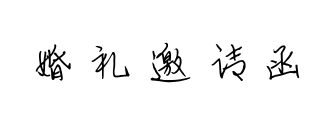
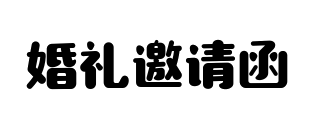
细节修正

Changed region(s): [[0.0613, 0.3197, 0.9202, 0.7377]]

diff --git a/index.html b/index.html
@@ -6,7 +6,7 @@
 <title>丁志斐 & 王鹤锦的婚礼邀请</title>
 <meta property="og:title" content="丁志斐 & 王鹤锦的婚礼邀请">
 <meta property="og:description" content="2026年11月16日，诚挚邀请您见证我们的幸福">
-<meta property="og:image" content="https://invitation.dingwangwedding.asia/assets/custom/photo1.jpg">
+<meta property="og:image" content="https://invitation.dingwangwedding.asia/assets/custom/photo1.jpg?_v=1">
 <meta property="og:url" content="https://invitation.dingwangwedding.asia/">
 <link rel="icon" href="favicon.ico" sizes="any">
 <style>
@@ -28,7 +28,7 @@
     overflow: hidden;
   }
   .flex-row { display: flex; flex-direction: row;}
-  .body_bg { padding: 20px; background: url(/assets/base/bg.webp); }
+  .body_bg { padding: 20px; background: url(/assets/base/bg.webp); background-size: contain; }
   .top-wrap1 { margin-bottom: 10px; font-size: 18px; }
   .top-en { font-family: Georgia, serif; font-weight: 600; letter-spacing: 2px; color: #272429;  }
   .top-cn { color: #272429; }
@@ -39,17 +39,40 @@
   .photo { width: 100%; border-radius: 8px; margin-bottom: 24px; display: block; object-fit: cover; }
   .text-block { font-size: 14px; color: #787878; text-align: center; line-height: 2; margin-bottom: 28px; letter-spacing: 0.5px; }
   .text-block.dark { color: #2f2f2f; }
+  .part-title { width: 100%; font-size:1.2rem; color:#000000;letter-spacing:0.05rem;line-height: 3rem; text-align: center; }
   .couple { display: flex; justify-content: center; align-items: center; gap: 20px; margin: 30px 0; }
   .couple .name { font-size: 18px; font-weight: 600; color: #2f2f2f; }
   .couple .heart { color: #e08a9e; font-size: 20px; }
+  /* 新人头像 */
+  .couple-avatars, .couple-names { display: flex; justify-content: center; align-items: center; gap: 14px; }
+  .couple-avatars { margin: 8px 0 16px; }
+  .couple-avatars .avatar { width: 108px; height: 108px; border-radius: 50%; object-fit: cover; display: block; }
+  .couple-avatars .heart-img { width: 51px; height: 40px; display: block; }
+  .couple-names { margin-bottom: 28px; }
+  .couple-names .name { width: 108px; text-align: center; font-size: 15px; color: #2f2f2f; letter-spacing: 2px; }
+  .couple-names .gap { width: 51px; }
   .date-section { text-align: center; margin: 36px 0; padding: 24px 0; border-top: 1px solid #f0e6e6; border-bottom: 1px solid #f0e6e6; }
   .date-main { font-size: 20px; font-weight: 600; color: #2f2f2f; margin-bottom: 4px; }
   .date-sub { font-size: 13px; color: #787878; }
+  /* 婚礼日历 */
+  .calendar { max-width: 260px; margin: 22px auto 26px; }
+  .cal-head { display: flex; align-items: baseline; justify-content: space-between; margin-bottom: 18px; }
+  .cal-month { font-family: Georgia, serif; font-weight: 700; font-size: 38px; line-height: 1; color: #a8202f; }
+  .cal-month small { font-size: 17px; font-weight: 400; margin-left: 2px; }
+  .cal-year { font-family: Georgia, serif; font-size: 15px; letter-spacing: 1px; color: #b3a7a7; }
+  .cal-week, .cal-grid { display: grid; grid-template-columns: repeat(7, 1fr); }
+  .cal-week { font-size: 13px; color: #b3a7a7; text-align: center; padding-bottom: 6px; border-bottom: 1px solid #e6c6cb; }
+  .cal-grid { margin-top: 12px; row-gap: 6px; }
+  .cal-day { position: relative; display: flex; align-items: center; justify-content: center; height: 28px; font-family: Georgia, serif; font-size: 13px; color: #b3a7a7; }
+  .cal-day span { position: relative; }
+  .cal-heart { position: absolute; width: 30px; height: 30px; }
+  .cal-day.today { color: #a8202f; font-weight: 700; }
   .address { text-align: center; font-size: 15px; color: #2f2f2f; margin: 24px 0; }
   .address .label { display: block; font-size: 13px; color: #b58a95; margin-bottom: 4px; letter-spacing: 2px; }
-  .rsvp { margin: 40px 0 20px; padding: 24px; background: #fdf8f5; border-radius: 12px; }
+  .rsvp { margin: 40px 0 20px; padding: 24px; }
   .rsvp-title { text-align: center; font-size: 15px; font-weight: 600; color: #8a0212; letter-spacing: 2px; margin-bottom: 20px; }
-  .rsvp input, .rsvp textarea { width: 100%; padding: 12px 16px; margin-bottom: 12px; border: 1px solid #e0d0d0; border-radius: 8px; font-size: 14px; background: #fff; outline: none; font-family: inherit; }
+  .rsvp form { width: 90%; margin: 5%; }
+  .rsvp input, .rsvp textarea { width: 100%; padding: 12px 16px; margin-bottom: 12px; border: 1px solid #e0d0d0; border-radius: 8px; font-size: 14px; background: transparent; outline: none; font-family: inherit; }
   .rsvp input:focus, .rsvp textarea:focus { border-color: #e08a9e; }
   .rsvp textarea { min-height: 5rem; resize: vertical; }
   .rsvp button { width: 100%; padding: 14px; background: #840404; color: #fff; border: 1px solid #ca9133; border-radius: 8px; font-size: 15px; letter-spacing: 2px; cursor: pointer; font-family: inherit; }
@@ -65,25 +88,32 @@
     position: fixed;
     top: 20px;
     right: 20px;
-    width: 44px;
-    height: 44px;
+    width: 30px;
+    height: 30px;
+    padding: 1px;
     border-radius: 50%;
     background: rgba(145, 143, 143, 0.26);
-    display: flex;
-    align-items: center;
-    justify-content: center;
     z-index: 9999;
     cursor: pointer;
     transition: background 0.3s;
   }
   .music-btn img {
-    width: 24px;
-    height: 24px;
+    width: 28px;
+    height: 28px;
+  }
+  .music-btn.paused::after {
+    content: '';
+    position: absolute;
+    top: 50%;
+    left: 50%;
+    transform: translate(-50%, -50%) rotate(-45deg);
+    width: 2px;
+    height: 26px;
+    background: white;
+  }
+  .music-btn:not(.paused) img {
     animation: rotate 3s linear infinite;
     animation-play-state: running;
-  }
-  .music-btn.paused img {
-    animation-play-state: paused;
   }
   @keyframes rotate {
     from { transform: rotate(0deg); }
@@ -106,11 +136,23 @@
   <div class="body_bg">
     <div class="text-block text-right" style="font-weight:bold;">D&amp;W<br/>想告诉你们一个好消息<br>我们结婚啦！</div>
 
-    <img class="photo" src="assets/custom/photo1.jpg" alt="婚纱照">
+    <img class="photo" src="assets/custom/photo9.jpg" alt="婚纱照">
 
     <img class="photo" src="assets/base/invitationText.png" alt="婚礼邀请函">
+
+    <!-- 新人头像 -->
+    <div class="couple-avatars">
+      <img class="avatar" src="assets/custom/couple-groom.webp" alt="丁志斐">
+      <img class="heart-img" src="assets/base/couple-heart.webp" alt="❤">
+      <img class="avatar" src="assets/custom/couple-bride.webp" alt="王鹤锦">
+    </div>
+    <div class="couple-names">
+      <span class="name">丁志斐</span>
+      <span class="gap"></span>
+      <span class="name">王鹤锦</span>
+    </div>
     <div class="text-block">
-      我度量时间的方式<br>
+      度量时间的方式<br>
       不是三餐四季<br>
       不是昼夜交替<br>
       而是是否和你在一起<br>
@@ -118,21 +160,49 @@
       来抵御漫漫岁月中的默默无闻<br>
       终于在
     </div>
-
-    <img class="photo" src="assets/custom/photo2.jpg" alt="婚纱照">
-
-    <div class="couple">
-      <span class="name">丁志斐</span>
-      <span class="heart">❤</span>
-      <span class="name">王鹤锦</span>
+    <div class="text-block dark" style="margin-top: -10px; margin-bottom: 8px; font-weight: 600;">
+      2026年11月16日
     </div>
-
     <div class="text-block dark">
-      2026年11月16日<br>
       <span style="font-size:13px;color:#787878;">我们决定举行婚礼！</span>
     </div>
-
     <img class="photo" src="assets/custom/photo3.jpg" alt="婚纱照">
+    <img class="photo" src="assets/base/flower.webp" style="width: 68px; margin: 0 auto;" />
+    <div class="text-block">
+      浪漫不止有鲜花和夕阳<br>
+      还有细水长流<br>
+      来日方长
+    </div>
+    <img class="photo" src="assets/custom/photo4.webp" alt="婚纱照">
+    <div style="position: relative; height: 48px;">
+      <img src="assets/base/dream.png" style="width: 104px; position: absolute; top: -56px; right: 0;" />
+    </div>
+    <div class="text-block text-right">
+      /<br>
+      我们说到爱，说到相见<br>
+      仿佛大地给了我们容身之所<br>
+      不断靠近的星群<br>
+      头顶上的流水之声
+    </div>
+    <img class="photo" src="assets/custom/photo5.jpg" alt="婚纱照">
+    <img class="photo" src="assets/custom/photo6.jpg" alt="婚纱照">
+    <div class="text-block">
+      我虽不善言辞<br>
+      但关于爱你我无法掩饰<br>
+      从粗粝的一生中<br>
+      榨尽所有温柔悉数献于你<br>
+      我仍觉不够
+    </div>
+    <div style="display: flex; flex-flow: row wrap; gap: 0.5rem;">
+      <div style="flex: 1;">
+        <img class="photo" src="assets/custom/photo7.jpg" alt="婚纱照"/>
+      </div>
+      <div style="flex: 1;">
+        <img class="photo" src="assets/custom/photo8.jpg" alt="婚纱照" style="margin-top: 12rem;">
+        <img class="photo" src="assets/base/leaf-heart.png" alt="" style="width: 51px; float: right; margin-right: 2rem;">
+      </div>
+    </div>
+
 
     <div class="text-block">
       如今<br>
@@ -140,18 +210,44 @@
       诚挚邀请共同走过许多岁月最重要的亲朋好友<br>
       一同分享爱与喜悦
     </div>
+    <img class="photo" src="assets/base/flower2.png" style="width: 65px; margin: 0 auto;" />
 
     <div class="date-section">
-      <div style="font-size:15px;color:#990505;letter-spacing:3px;margin-bottom:16px;">· 婚礼时间 / TIME ·</div>
+      <div class="part-title">· 婚礼时间 / TIME ·</div>
+      <div class="calendar">
+        <div class="cal-head">
+          <div class="cal-month">11 <small>/ 16</small></div>
+          <div class="cal-year">- 2026 -</div>
+        </div>
+        <div class="cal-week">
+          <span>一</span><span>二</span><span>三</span><span>四</span><span>五</span><span>六</span><span>日</span>
+        </div>
+        <div class="cal-grid">
+          <div class="cal-day"></div><div class="cal-day"></div><div class="cal-day"></div><div class="cal-day"></div><div class="cal-day"></div><div class="cal-day"></div><div class="cal-day"><span>1</span></div>
+          <div class="cal-day"><span>2</span></div><div class="cal-day"><span>3</span></div><div class="cal-day"><span>4</span></div><div class="cal-day"><span>5</span></div><div class="cal-day"><span>6</span></div><div class="cal-day"><span>7</span></div><div class="cal-day"><span>8</span></div>
+          <div class="cal-day"><span>9</span></div><div class="cal-day"><span>10</span></div><div class="cal-day"><span>11</span></div><div class="cal-day"><span>12</span></div><div class="cal-day"><span>13</span></div><div class="cal-day"><span>14</span></div><div class="cal-day"><span>15</span></div>
+          <div class="cal-day today">
+            <svg class="cal-heart" viewBox="0 0 32 30" fill="none" stroke="#c0414f" stroke-width="1.6" aria-hidden="true">
+              <path d="M16 28.5C16 28.5 1.5 19 1.5 10.2C1.5 5.6 5.2 1.5 9.8 1.5C12.7 1.5 15.1 3.1 16 5.2C16.9 3.1 19.3 1.5 22.2 1.5C26.8 1.5 30.5 5.6 30.5 10.2C30.5 19 16 28.5 16 28.5Z"/>
+            </svg>
+            <span>16</span>
+          </div>
+          <div class="cal-day"><span>17</span></div><div class="cal-day"><span>18</span></div><div class="cal-day"><span>19</span></div><div class="cal-day"><span>20</span></div><div class="cal-day"><span>21</span></div><div class="cal-day"><span>22</span></div>
+          <div class="cal-day"><span>23</span></div><div class="cal-day"><span>24</span></div><div class="cal-day"><span>25</span></div><div class="cal-day"><span>26</span></div><div class="cal-day"><span>27</span></div><div class="cal-day"><span>28</span></div><div class="cal-day"><span>29</span></div>
+          <div class="cal-day"><span>30</span></div>
+        </div>
+      </div>
       <div class="date-main">2026年11月16日 星期一</div>
       <div class="date-sub">农历十月初八 11:00</div>
     </div>
 
     <div class="address">
-      <span class="label">· 婚礼地点 / ADDRESS ·</span>
+      <div class="part-title">· 婚礼地点 / ADDRESS ·</div>
+      <div>
       <a href="http://api.map.baidu.com/marker?location=34.373851,112.908090&title=我的家&content=河南省登封市石道乡苗庄村三组&output=html"
          style="margin-bottom:10px; color:#8a0212; text-decoration:none;">河南省登封市（点击查看地图）</a>
-      <div id="map" style="width:100%; height:240px; border-radius:12px; margin-top:10px;"></div>
+      </div>
+      <div id="map" style="width:80%; height:240px; border-radius:12px; margin:10px 10%;"></div>
     </div>
 
     <script src="https://api.map.baidu.com/api?type=webgl&v=1.0&ak=1PM8hNrn5RHsrx7BHgEou6dtqvCY0Pbf"></script>
@@ -162,9 +258,15 @@
       map.addOverlay(new BMapGL.Marker(point));
       map.enableScrollWheelZoom(false);
     </script>
-
+    <div class="text-block">
+      期待爱情最美丽的那刻<br>
+      你我在爱的名义下步入殿堂<br>
+      接受世界最诚挚的祝福<br>
+      SAY&nbsp;YES,这是我们彼此的共鸣
+    </div>
+    <img class="photo" src="assets/base/stars.png" alt="婚礼邀请函" style="width: 55px; margin: 0 auto;">
     <div class="rsvp">
-      <div class="rsvp-title">· 宾客回执 ·</div>
+      <div class="part-title">· 宾客回执 ·</div>
       <div id="rsvp-success" style="display:none; color:#8a0212; text-align:center; padding:10px; font-size:14px;">提交成功，感谢您的参与！</div>
       <div id="rsvp-error" style="display:none; color:#d32f2f; text-align:center; padding:10px; font-size:14px;"></div>
 
@@ -174,6 +276,8 @@
         <button type="submit">提交</button>
       </form>
     </div>
+    <img class="photo" src="assets/base/invitationText2.png" alt="婚礼邀请函" style="width: 80%; margin: 0 auto 3rem;">
+    <img class="photo" src="assets/custom/photo2.jpg" alt="婚纱照">
 
     <div class="ending">
       感谢我的朋友可以看到这里<br>
@@ -187,7 +291,7 @@
     </div>
     <div class="ending">
       <div class="end-mark">· END ·</div>
-      <span class="heart">❤</span>
+      <img class="photo" src="assets/base/xi.png" style="width: 49px; margin: 0 auto;" />
     </div>
   </div>
 </div>
@@ -204,16 +308,37 @@
   var musicBtn = document.getElementById('musicBtn');
   var isPlaying = false;
 
-  musicBtn.addEventListener('click', function () {
-    if (isPlaying) {
-      music.pause();
-      musicBtn.classList.add('paused');
-      isPlaying = false;
-    } else {
-      music.play();
+  function playMusic() {
+    music.play().then(function () {
       musicBtn.classList.remove('paused');
       isPlaying = true;
+    }).catch(function () {});
+  }
+
+  function pauseMusic() {
+    music.pause();
+    musicBtn.classList.add('paused');
+    isPlaying = false;
+  }
+
+  musicBtn.addEventListener('click', function () {
+    if (isPlaying) {
+      pauseMusic();
+    } else {
+      playMusic();
     }
+  });
+
+  // 默认自动播放；若被浏览器策略拦截，则在用户首次交互时补播
+  playMusic();
+  var musicUnlocked = false;
+  function unlockMusic() {
+    if (musicUnlocked) return;
+    musicUnlocked = true;
+    if (music.paused) playMusic();
+  }
+  ['pointerdown', 'mousedown', 'touchstart', 'click', 'keydown'].forEach(function (evt) {
+    document.addEventListener(evt, unlockMusic, { capture: true, passive: true });
   });
 
   // ===== 自动下滑（顺滑版） =====
@@ -236,7 +361,7 @@
 
   ['touchstart', 'mousedown', 'wheel', 'keydown'].forEach(function (evt) {
     document.addEventListener(evt, function (e) {
-	  if (musicBtn.contains(e.target)) return;
+      if (musicBtn.contains(e.target)) return;
       userInteracted = true;
       autoScrollActive = false;
     }, { passive: true });
